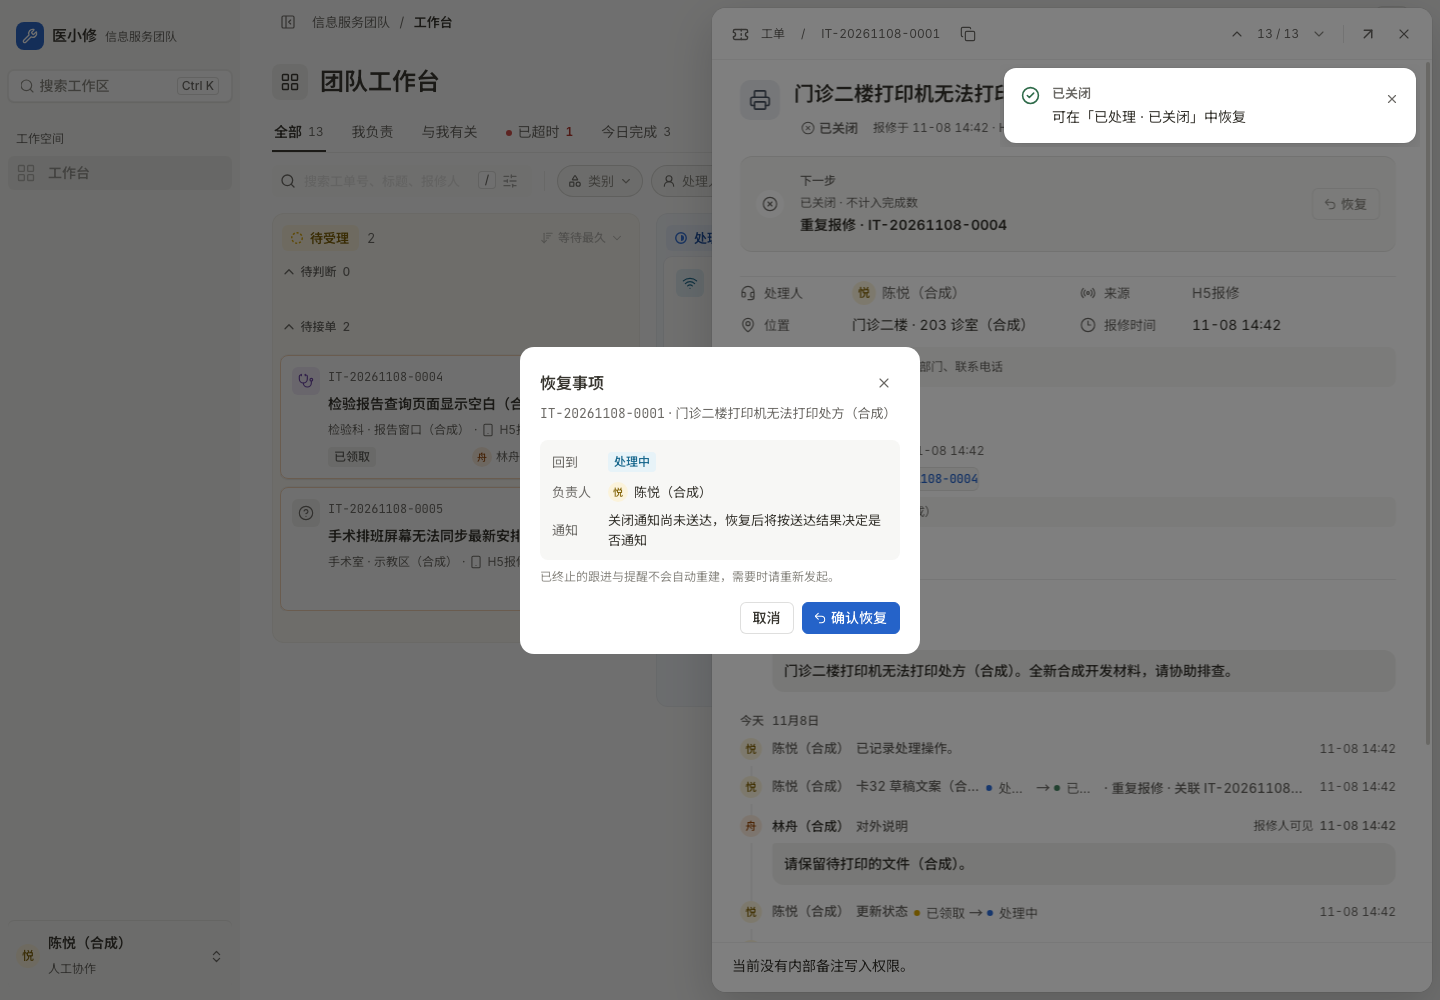
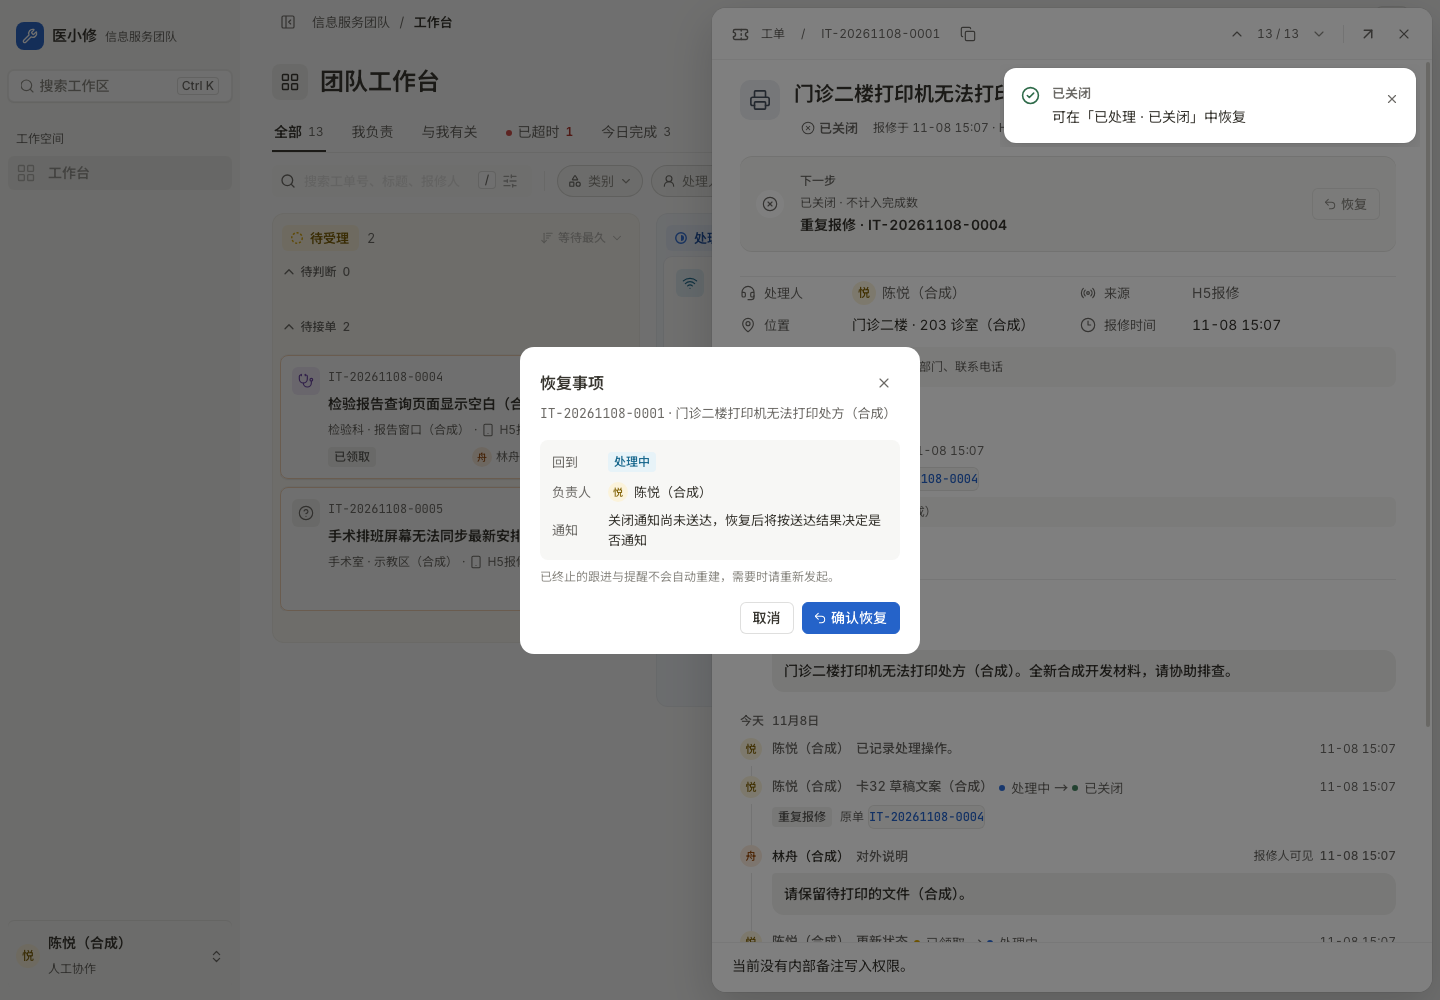
fix(pc-admin): 卡32B 处理记录关闭行状态标签不截断，原因与原单改到第二行
- 去掉 .record-status-change 的裁切，状态变化与标签 flex:none
- 原因标签 + 「原单 IT-…」放在第二行，与关闭记录共用 ClosureFacts，链接位于记录按钮之外
- 用例断言状态变化内无截断（scrollWidth <= clientWidth）且原因在第二行

Changed region(s): [[0.5312, 0.806, 0.7188, 0.961], [0.6875, 0.775, 0.9688, 0.868], [0.9375, 0.899, 0.9688, 0.93]]

diff --git a/app/pc-admin/src/app/DetailPresentation.tsx b/app/pc-admin/src/app/DetailPresentation.tsx
@@ -13,7 +13,7 @@ import {StatusBadge} from '../design/components/StatusBadge/StatusBadge';
 import {statusTones} from '../design/status-map';
 import type {Principal,WorkbenchDetail} from '../api/client';
 import {statusLabels} from '../api/client';
-import {closureReasonText,externalTicketNumber} from '../design/components/TicketCard/closure-presentation';
+import {ClosureFacts} from '../design/components/TicketCard/TicketCard';
 import {PersonalReadMaterial} from '../features/personal-read/PersonalReadMaterial';
 import {groupActivityRecords} from './activity-time.mjs';
 import {activityActorName} from './activity-actors.mjs';
@@ -43,11 +43,6 @@ export function ActivityTimeline({records,principal,item,active,now,children,des
   </Section>;
 }
 const closingStatuses=new Set(['CANCELLED','DUPLICATE_LINKED','IGNORED']);
-/** 「重复报修 · 关联 IT-…」 / 「非 IT 范围 · 业务咨询」 for the current closure. */
-function closureSubtext(closure:WorkbenchDetail['item']['closure']){
-  if(!closure)return null;const original=externalTicketNumber(closure.duplicate_of?.display_no);
-  return closureReasonText(closure)+(original?' · 关联 '+original:'');
-}
 function ActivityRecord({record,principal,item,active,now,closure=false}:{record:WorkbenchDetail['records'][number];principal:Principal;item:WorkbenchDetail['item'];active:boolean;now:number;closure?:boolean}){
   const [expanded,setExpanded]=useState(false),name=activityActorName(record),kind=recordKind(record);
   const text=record.text??(kind==='status'?'更新状态':'已记录处理操作。');
@@ -57,7 +52,8 @@ function ActivityRecord({record,principal,item,active,now,closure=false}:{record
     <HButton tone="ghost" className="record-content" aria-expanded={expanded} title={expanded?'收起记录':'展开完整记录'} onPress={()=>setExpanded(value=>!value)}>
       {bubble?<span className="record-heading"><span className="record-name">{name}</span>{kind==='report'?<><span className="record-report-separator" aria-hidden="true">·</span>{time}<span className="record-action sr-only">提交报修</span></>:<><span className="record-action">{record.audience==='INTERNAL'?'添加内部备注':'对外说明'}</span>{audience}{time}</>}</span>:<span className="record-name">{name}</span>}
       {record.read_material?<PersonalReadMaterial inline active={active} principal={principal} item={{kind:item.kind,id:item.id}} sourceRef={record.read_material.source_ref} revision={record.read_material.revision} text={text}/>:<span className="record-text">{text}</span>}
-      {kind==='status'?<span className="record-status-change"><StatusBadge showStageGlyph={false} data-status={record.old_status??''} tone={statusTones[record.old_status??'']??'neutral'}>{statusLabels[record.old_status??'']??'新建'}</StatusBadge>{' → '}<StatusBadge showStageGlyph={false} data-status={record.new_status??''} tone={statusTones[record.new_status??'']??'neutral'}>{statusLabels[record.new_status??'']??'状态未记录'}</StatusBadge>{closure&&closureSubtext(item.closure)?<span className="record-closure-reason" data-record-closure-reason> · {closureSubtext(item.closure)}</span>:null}</span>:null}
+      {kind==='status'?<span className="record-status-change"><StatusBadge showStageGlyph={false} data-status={record.old_status??''} tone={statusTones[record.old_status??'']??'neutral'}>{statusLabels[record.old_status??'']??'新建'}</StatusBadge>{' → '}<StatusBadge showStageGlyph={false} data-status={record.new_status??''} tone={statusTones[record.new_status??'']??'neutral'}>{statusLabels[record.new_status??'']??'状态未记录'}</StatusBadge></span>:null}
     </HButton>
+    {closure&&item.closure?<div className="record-closure-facts" data-record-closure-reason><ClosureFacts closure={item.closure}/></div>:null}
   </TimelineItem>;
 }

diff --git a/app/pc-admin/src/design/components/TicketCard/TicketCard.tsx b/app/pc-admin/src/design/components/TicketCard/TicketCard.tsx
@@ -59,14 +59,19 @@ export function DismissedTicketCardBody({item,now,followUp,titleLink}:{item:Work
 }
 
 export interface ClosureRecordEntry {source:'MANUAL'|'SYSTEM'|null;reason_code:string|null;reason_label:string|null;secondary_reason:{code:string;label:string}|null;note:string|null;duplicate_of:{display_no:string}|null;closed_at:string|null;closed_by_display_name:string|null;notification_state?:'SENT'|'UNKNOWN'|'NOT_SENT';restored_at?:string|null;restored_by_display_name?:string|null}
+/** Reason tag + 「原单 IT-…」 link, shared by the closure record and (Card 32 B6) the closing line of the activity timeline. */
+export function ClosureFacts({closure}:{closure:Pick<ClosureRecordEntry,'reason_code'|'reason_label'|'secondary_reason'|'duplicate_of'>}){
+  const original=externalTicketNumber(closure.duplicate_of?.display_no);
+  return <><Tag className="ds-closure-entry-reason">{closureReasonText(closure)}</Tag>
+    {original?<span className="ds-closure-entry-original"><span>原单</span><ClosureOriginalLink number={original}/></span>:null}</>;
+}
 /** Card 29 D3: one compact closure entry; empty values are omitted instead of shown as placeholders. */
 export function ClosureRecord({entry,now}:{entry:ClosureRecordEntry;now?:number}){
-  const name=entry.closed_by_display_name,original=externalTicketNumber(entry.duplicate_of?.display_no);
+  const name=entry.closed_by_display_name;
   return <div className="ds-closure-entry" data-closure-record="true">
     <div className="ds-closure-entry-head">{entry.source==='SYSTEM'?<Avatar size={20} systemIcon={<Bot aria-hidden="true"/>} aria-hidden="true"/>:name?<Avatar name={name} size={20} aria-hidden="true"/>:null}
       {name?<strong className="ds-closure-entry-name">{name}</strong>:null}<span className="ds-closure-entry-method">{entry.source==='SYSTEM'?'系统判定':'人工关闭'}{entry.closed_at?<> · <BeijingTime value={entry.closed_at} {...(now===undefined?{}:{now})}/></>:null}</span></div>
-    <div className="ds-closure-entry-facts"><Tag className="ds-closure-entry-reason">{closureReasonText(entry)}</Tag>
-      {original?<span className="ds-closure-entry-original"><span>原单</span><ClosureOriginalLink number={original}/></span>:null}
+    <div className="ds-closure-entry-facts"><ClosureFacts closure={entry}/>
       {entry.notification_state==='SENT'?<span className="ds-closure-entry-notified">已通知报修人</span>:null}</div>
     {entry.note?<p className="ds-closure-entry-note">说明：{entry.note}</p>:null}
     {entry.restored_at?<p className="ds-closure-restored-event" data-closure-restored-event><Undo2 aria-hidden="true"/>{entry.restored_by_display_name?<strong>{entry.restored_by_display_name}</strong>:null}<span>恢复 · <BeijingTime value={entry.restored_at} {...(now===undefined?{}:{now})}/></span></p>:null}

diff --git a/app/pc-admin/src/design/components/Timeline/timeline.css b/app/pc-admin/src/design/components/Timeline/timeline.css
@@ -32,10 +32,10 @@
 .ds-timeline .record-status-change :is([data-status=NEW],[data-status=QUEUED],[data-status=ACCEPTED],[data-status=REOPENED])>.ds-status-dot {background:var(--stage-intake-accent);}
 .ds-timeline .record-status-change :is([data-status=IN_PROGRESS],[data-status=WAITING_REQUESTER],[data-status=WAITING_VENDOR])>.ds-status-dot {background:var(--stage-active-accent);}
 .ds-timeline .record-status-change :is([data-status=RESOLVED],[data-status=CLOSED],[data-status=CANCELLED],[data-status=DUPLICATE_LINKED],[data-status=IGNORED])>.ds-status-dot {background:var(--stage-done-accent);}
-/* Card 32 B6: every closing status reads 「已关闭」; the reason follows as secondary text. */
-.ds-timeline .record-status-change:has(.record-closure-reason) {min-width:0;overflow:hidden;}
-.ds-timeline .record-status-change .record-closure-reason {min-width:0;overflow:hidden;text-overflow:ellipsis;color:var(--text-secondary);font-size:var(--fs-sm);}
-.ds-timeline .detail-record:has(.record-closure-reason) .record-name {flex:none;}
+/* Card 32 B6: every closing status reads 「已关闭」 and is never truncated; reason and original ticket go on a second line, as in 关闭记录. */
+.ds-timeline .record-status-change,.ds-timeline .record-status-change .ds-status-badge {flex:none;}
+.ds-timeline .ds-timeline-item.detail-record>.record-closure-facts {grid-column:2 / -1;grid-row:2;display:flex;flex-wrap:wrap;align-items:center;gap:var(--space-1-5) var(--space-2);min-width:0;margin-top:calc(-1 * var(--space-1));font-size:var(--fs-xs);}
+.record-closure-facts .ds-tag {margin:0;}
 .ds-timeline [data-timeline-empty] {margin: 0; padding: 0; background: none; color: var(--text-secondary); font-size: var(--fs-sm); overflow-wrap: anywhere;}
 .ds-notification-summaries .notification-timeline-scroll {overflow: visible; padding: 0;}
 .ds-notification-summaries .notification-timeline {display: grid; gap: var(--space-2); padding: 0; min-width: 0;}

diff --git a/docs/ui/design-system.md b/docs/ui/design-system.md
@@ -33,7 +33,7 @@
 - **⋯ 菜单**：宽 220、圆角 10、内边距 4；菜单项行高 32、14px 图标 + 13px 文字、左对齐；「刷新可用操作」（`RefreshCw`）为普通项；分隔线后「关闭事项…」为危险项（`CircleX`、`--tone-danger-fg`，悬停 `--tone-danger-bg`）。选中菜单项先收起菜单并把焦点交给「⋯」，再打开对话框；对话框关闭后焦点回到「⋯」（卡32 B3）。
 - **恢复确认**：信息块（`--bg-subtle`、圆角 8、内边距 10 12）三行「标签 56px + 值」：回到（阶段标签）、负责人（头像 20 + 姓名 / 未领取）、通知（关闭时未选择通知 →「关闭时未通知报修人，本次不发送」；已送达 →「关闭时已通知，将通知报修人已重新受理」；其余 →「关闭通知尚未送达，恢复后将按送达结果决定是否通知」。依据 `restore_target.notify_reporter` 与 `notification_state`）。信息块下 12px `--text-tertiary`「已终止的跟进与提醒不会自动重建，需要时请重新发起。」，与信息块间距固定，不用负外边距。主按钮「↶ 确认恢复」。面板为不透明 `--bg-canvas`，位于 HeroUI 模态层（高于名牌与在场外圈）；截图须等进入动画结束（卡32 B5）。
 - **抽屉已关闭态**：标题下灰色「⊗ 已关闭」徽标，不显示绿色「已处理」与子状态。下一步卡中性灰（`--bg-subtle` + 发丝描边），28px 白底圆内 16px `CircleX`，第一行 12px「已关闭 · 不计入完成数」，第二行 14px / 600 原因（如「非 IT 范围 · 业务咨询」「重复报修 · IT-…」），右侧 secondary「↶ 恢复」。处理中事项的等待类控制器只有「草稿仅在当前浏览器…」常规提示时不在「处理人」上方画孤立的 ⓘ，提示仅供读屏（卡32 B4）。恢复只从下一步卡进入；事项已不再关闭但仍有未核对的恢复操作时，「核对恢复」保留在关闭记录中。
-- **关闭记录**：一个「关闭记录」分节，按时间倒序，每次关闭一条：「头像 20 + **姓名** + 人工关闭 / 系统判定 · 时间」；下一行原因标签 + 原单链接（有才显示）+「已通知报修人」（有才显示）；说明为下方 `--bg-subtle` 小块；恢复为该条下 12px「↶ 姓名 恢复 · 时间」。空值字段不显示。动态里关闭类状态（`CANCELLED` / `DUPLICATE_LINKED` / `IGNORED`）一律显示「已关闭」；当前处于关闭的事项，最近一条关闭状态记录后接副文案「· {原因}」，有原单时追加「· 关联 IT-…」（如「已关闭 · 重复报修 · 关联 IT-…」，卡32 B6）；更早的关闭见关闭记录。
+- **关闭记录**：一个「关闭记录」分节，按时间倒序，每次关闭一条：「头像 20 + **姓名** + 人工关闭 / 系统判定 · 时间」；下一行原因标签 + 原单链接（有才显示）+「已通知报修人」（有才显示）；说明为下方 `--bg-subtle` 小块；恢复为该条下 12px「↶ 姓名 恢复 · 时间」。空值字段不显示。动态里关闭类状态（`CANCELLED` / `DUPLICATE_LINKED` / `IGNORED`）一律显示「已关闭」；状态标签不截断（`flex:none`）；当前处于关闭的事项，最近一条关闭状态记录下方第二行显示原因标签 + 「原单 IT-…」链接，写法与关闭记录一致（共用 `ClosureFacts`，链接位于记录按钮之外，卡32 B6）；更早的关闭见关闭记录。
 - **提示条**：关闭成功「已关闭」+「可在「已处理 · 已关闭」中恢复」；恢复成功「已恢复」+「已回到{列名}」。其它功能的「原操作已核对为提交…」本卡不改。
 - **「已取消」→「已关闭」**：PC 端状态映射、动态记录、标签中 `CANCELLED` 显示「已关闭」，状态值不变。搜索「细分状态」里 `CLOSED` 与之同名，显示为「已关闭（已完成）」以区分。
 - **看板重复标签**：「重复 · IT-…」在同一个标签内，编号 `--font-mono` 12px。

diff --git a/plans/pc-admin-design-v21/card-32b.md b/plans/pc-admin-design-v21/card-32b.md
@@ -17,7 +17,7 @@
 | B3 | 已完成。抽屉「⋯」是原生 `details` 菜单，外部点击关闭逻辑在有对话框时让位，导致菜单停在弹窗后。关闭 / 恢复请求在打开对话框前收起所在 `details` 并把焦点交给「⋯」，对话框（react-aria FocusScope）据此在关闭后把焦点还给「⋯」。卡片「⋯」只含移列选项，不打开关闭弹窗。用例：选「关闭事项…」后菜单已收起；取消弹窗后焦点在「⋯」。 |
 | B4 | 已完成。来源：处理中事项的「等待补充 / 等待厂商」两个控制器只有常规提示「草稿仅在当前浏览器恢复，最长24小时。」时，被 `drawer-v21.css` 排成行内图标，位于「处理人」上方（卡29 证据 `02-not-it.png`）。无内容时改为仅读屏（视觉隐藏，`aria-label`、`title`、sr-only 全文保留，卡13 断言不变）；有草稿内容时控制器照常显示，图标与其「核对 / 清空」按钮同行并带 `title` 提示。 |
 | B5 | 结论：截图时机，不是样式。卡29 `04-restore-confirm.png` 中遮罩与面板同时半透明，为进入动画中途。面板本身为不透明 `--bg-canvas`，处于 HeroUI 模态层。`t10-cancel` 截图函数改为等待正在运行的动画结束再截图；新用例实测面板与遮罩累计不透明度 1、中心命中面板、无运行中动画。 |
-| B6 | 已完成。`status-map.ts` 与 `api/client.ts` 中 `DUPLICATE_LINKED` 显示名均改为「已关闭」（标签与动态一致）；时间线状态点同为已处理色。当前处于关闭的事项，最近一条关闭状态记录后显示副文案「· 重复报修 · 关联 IT-…」/「· 非 IT 范围 · 业务咨询」，数据取自事项当前关闭信息；更早、已恢复的关闭只在「关闭记录」中显示原因（限制）。关闭会同时产生一条「已记录处理操作。」记录，时间相同，故只匹配状态类记录。 |
+| B6 | 已完成。`status-map.ts` 与 `api/client.ts` 中 `DUPLICATE_LINKED` 显示名均改为「已关闭」（标签与动态一致）；时间线状态点同为已处理色。当前处于关闭的事项，最近一条关闭状态记录下方第二行显示原因标签 + 「原单 IT-…」链接，与关闭记录共用 `ClosureFacts`，数据取自事项当前关闭信息；状态标签 `flex:none` 永不截断；更早、已恢复的关闭只在「关闭记录」中显示原因（限制）。关闭会同时产生一条「已记录处理操作。」记录，时间相同，故只匹配状态类记录。 |
 
 ## 验证
 
@@ -25,6 +25,11 @@
 - 回归：`t10-cancel`（截图等待动画结束）、`pc-admin-card12`、`pc-admin-card29`、`workbench-detail-restructure`、`pc-admin-design-foundation` 与本卡用例共 113 项，112 通过。失败 1 项为 `pc-admin-card13` 的四宽度抽屉位置断言（右边距 7.65–7.84 ≠ 8，抽屉滑入动画中途测量）：在未修改的 `main` 上本机同样失败，非本卡引入，未改。
 - `migration:build`、`gate.mjs types`、`verify-artifact.mjs`、pc-admin `tsc`、Stylelint、ESLint 通过。
 - 截图 `docs/ui/evidence/v223-card32/`（1440×1000，macOS Chrome，DPR 1，**非 Windows**），回执 `receipt-32b.json`。
+
+## 审查后修复（PR #170）
+
+- P1：首版把说明、状态变化和原因挤在同一行，且 `.record-status-change` 设了 `overflow:hidden`，截图中状态标签被截成「已...」；用例只比对 `textContent`，未发现。改为：状态变化与标签 `flex:none`、去掉裁切；原因与原单移到第二行（原单链接在记录按钮之外，避免按钮嵌套）。用例新增断言：状态变化内每个节点 `scrollWidth <= clientWidth`、标签完整位于记录内、原因行在状态行下方。
+- 复测：`pc-admin-card32b` PASS；`t10-cancel`、`pc-admin-card29`、`workbench-detail-restructure`、`pc-admin-design-foundation` 87/87 PASS。
 
 ## 回退
 
